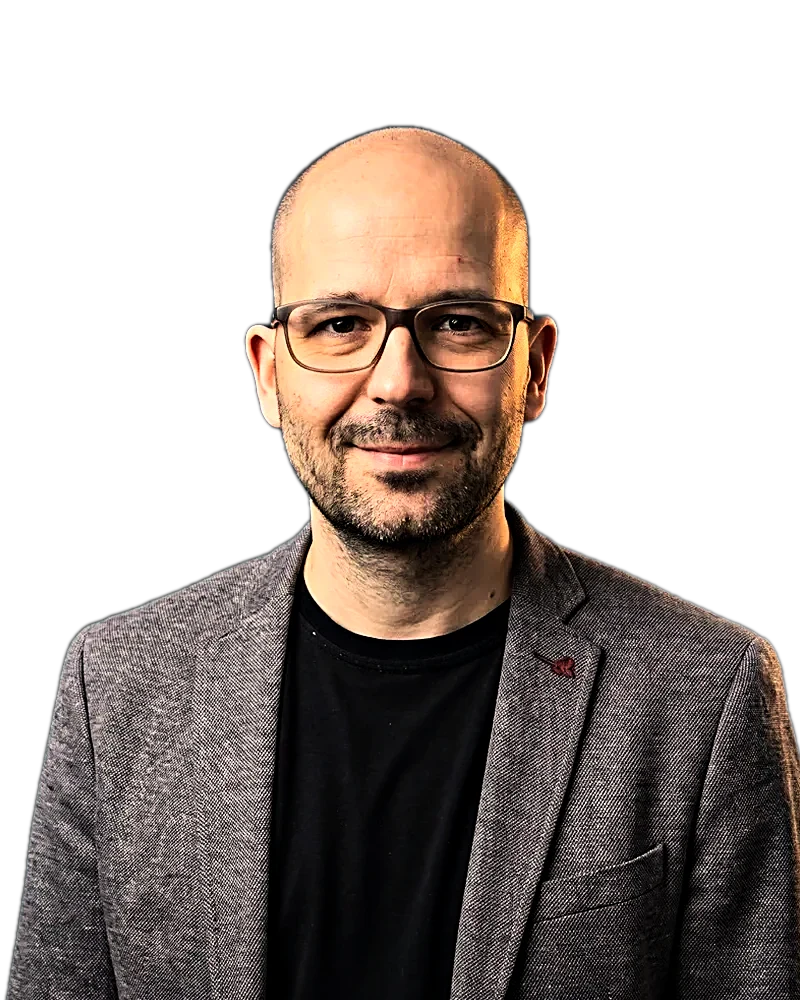
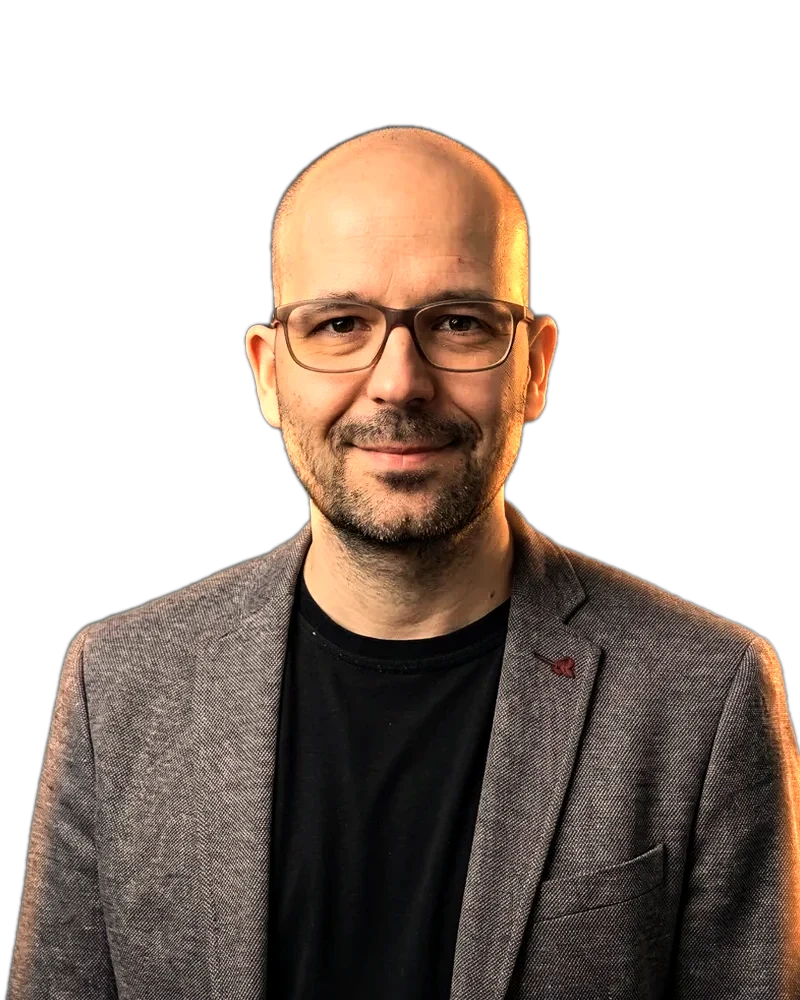
K21: Teamfotos näher an Glut-Vorlage (weniger Kontrast, warmes Kantenlicht), Leistungen als scanbare Zeilen, Team-Reihe in Zusammenarbeit, Auszeichnungen zentriert, Licht hinter Inhalt mit Hue-Filter
Claude-Session: https://claude.ai/code/session_01AoRcRyN7ZN1fsiyUanDb71

Changed region(s): [[0.0, 0.124, 1.0, 1.0], [0.375, 0.155, 0.4062, 0.186], [0.3438, 0.186, 0.375, 0.217]]

diff --git a/netzkombyse/k21/style.css b/netzkombyse/k21/style.css
@@ -865,3 +865,35 @@ html[data-motion=off] .op .op-k,.op.static .op-k{transition:none;opacity:1;trans
 .kst b{font:800 1.05rem/1.2 var(--hf);letter-spacing:-.02em}
 .kst li>span:last-child{font-size:.92rem;color:var(--soft)}
 @media(min-width:761px){.pn{grid-template-columns:minmax(0,1fr) auto}.pn p,.pn .chs{grid-column:1}.acc .pn .more{grid-column:2}}
+/* Licht: Glühen liegt hinter den Inhalten, über den Elementen wirkt nur ein Hue-Filter */
+.spot:not(.spot2):not(.spot3){z-index:0;mix-blend-mode:normal}
+main#main{position:relative;z-index:1}
+.spot3{mix-blend-mode:hue;z-index:85}
+
+/* Leistungen scanbar: eine Zeile je Leistung (Nummer, Titel und Satz, vier Stichpunkte, Link) */
+@media(min-width:901px){
+.sv{grid-template-columns:1fr;gap:0;padding-top:0}
+.svc{grid-template-columns:3.4rem minmax(0,1.15fr) minmax(0,1fr) auto;grid-template-rows:auto 1fr;gap:.5rem 2.4rem;align-items:start;padding:clamp(1.6rem,3.5vh,2.4rem) 0;border-bottom:1px solid var(--line);position:relative}
+.svc .n{grid-column:1!important;grid-row:1/3;padding-top:.5rem}
+.svc h3{grid-column:2!important;grid-row:1;font-size:clamp(1.7rem,2.6vw,2.5rem)}
+.svc>p{grid-column:2!important;grid-row:2;font-size:1rem;color:var(--soft);max-width:30rem}
+.svc .often{grid-column:3!important;grid-row:1/3;grid-template-columns:1fr 1fr;column-gap:1.4rem;border-top:0;margin:0;padding-top:.45rem}
+.svc .often li{padding:.45rem 0;border-bottom:0;color:#fff}
+.svc .more{grid-column:4!important;grid-row:1/3;align-self:center;font-size:0;width:56px;height:56px;min-height:0;justify-content:center;border:1.5px solid var(--line);border-radius:50%;padding:0;color:#fff;transition:background .3s,border-color .3s,color .3s}
+.svc .more svg{width:16px}
+.svc:hover .more{background:var(--o);border-color:var(--o);color:#000}
+.svc::after{content:"";position:absolute;left:0;bottom:-1px;height:2px;width:100%;background:var(--o);transform:scaleX(0);transform-origin:0 50%;transition:transform .6s var(--ease)}
+.svc:hover::after{transform:scaleX(1)}}
+/* Auszeichnungen zentriert, Label darüber */
+.aw2.aw3{display:flex;flex-direction:column;align-items:center;text-align:center;gap:1.4rem}
+.aw3 .awl{justify-content:center}
+/* Zusammenarbeit: das Team als Gesichterreihe unter dem Dreizeiler */
+.crew{display:inline-flex;align-items:center;gap:1.2rem;flex-wrap:wrap;margin-top:-.6rem;text-decoration:none;color:inherit}
+.crew-f{display:flex;padding-left:14px}
+.crew-f img{width:clamp(52px,5vw,68px);height:clamp(52px,5vw,68px);border-radius:50%;object-fit:cover;object-position:50% 10%;background:#1a1a1a;margin-left:-14px;box-shadow:0 0 0 3px #0b0b0b;transition:transform .45s var(--ease)}
+.crew:hover .crew-f img{transform:translate3d(0,-4px,0)}
+.crew:hover .crew-f img:nth-child(2n){transform:translate3d(0,-8px,0)}
+.crew-t{max-width:26rem;font-size:.98rem;color:var(--soft)}
+.crew-t b{color:#fff}
+.crew-t u{display:inline-block;margin-left:.3rem;text-decoration:none;color:var(--o);font-weight:700;border-bottom:1.5px solid var(--o)}
+.awf .awt{display:block;height:auto;aspect-ratio:auto;padding:0;max-width:7rem;line-height:1.15}

diff --git a/netzkombyse/k21/index.html b/netzkombyse/k21/index.html
@@ -131,6 +131,7 @@
 <section class="sec sun" id="zusammen"><div class="sunglow" aria-hidden="true"></div><div class="wr"><p class="k kc">So arbeiten wir</p><div class="two"><h2 data-chars data-reveal>Auf Augenhöhe. Auch bei Wellengang.</h2></div>
   <p class="s zs" data-reveal>Wir sind nicht die Agentur, die Aufträge abarbeitet. Wir denken mit, entscheiden gemeinsam und bleiben an deiner Seite, wenn es ungemütlich wird.</p>
   <p class="trio" data-reveal><span>Du kennst dein Geschäft.</span><span>Wir kennen unser Handwerk.</span><span class="hl">Zusammen wissen wir mehr.</span></p>
+  <a class="crew" href="#menschen" data-reveal><span class="crew-f" aria-hidden="true"><img src="../media/team-glut/henning.webp" alt="" width="80" height="100" loading="lazy"><img src="../media/team-glut/patrick.webp" alt="" width="80" height="100" loading="lazy"><img src="../media/team-glut/heiko.webp" alt="" width="80" height="100" loading="lazy"><img src="../media/team-glut/felix.webp" alt="" width="80" height="100" loading="lazy"><img src="../media/team-glut/inga.webp" alt="" width="80" height="100" loading="lazy"><img src="../media/team-glut/mi.webp" alt="" width="80" height="100" loading="lazy"><img src="../media/team-glut/tim.webp" alt="" width="80" height="100" loading="lazy"><img src="../media/team-glut/stefan.webp" alt="" width="80" height="100" loading="lazy"><img src="../media/team-glut/claude.webp" alt="" width="80" height="100" loading="lazy"></span><span class="crew-t"><b>Neun Köpfe, ein Team.</b> Du sprichst direkt mit den Leuten, die deinen Shop bauen. <u>Team ansehen</u></span></a>
   </div></section>
 
 <section class="sec vs" id="stimmen" aria-label="Was Kunden sagen"><div class="wr"><p class="k kc">Kundenstimmen</p><div class="two"><h2 data-chars data-reveal>Genug von uns. Frag die anderen.</h2></div>
